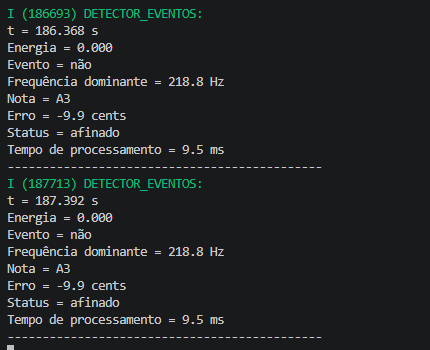
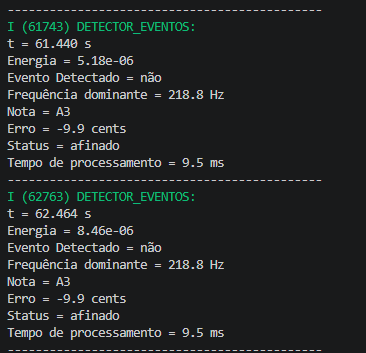
Finalizando projeto 1

Changed region(s): [[0.0, 0.0286, 0.8716, 1.0]]

diff --git a/Relatorio 1/Lab01/main/execCiclico/execCiclico.c b/Relatorio 1/Lab01/main/execCiclico/execCiclico.c
@@ -1,5 +1,5 @@
 #include "execCiclico.h"
-#include "esp_timer.h"          /* [ALTERAÇÃO] medição de tempos (README §5, §10, §11, §12) */
+#include "esp_timer.h" /* [ALTERAÇÃO] medição de tempos (README §5, §10, §11, §12) */
 #include <stdio.h>
 #include "i2sMic.h"
 #include "filtroFIR.h"
@@ -8,16 +8,18 @@
 #include "notaMusical.h"
 #include "calcEnergia.h"
 #include "detectEvent.h"
-/* [ALTERAÇÃO] Removido #include "mediaMovel.h": o módulo calcula potência média de
- * amostras e não faz parte do fluxo do README (FFT -> frequência dominante -> nota). */
 
-static const char *TAG = "EXEC_CICLICO";
+/* [ALTERAÇÃO] Contagem de ticks. Antes: só um flag booleano, que perdia os ticks ocorridos
+ * durante tarefas de vários quadros (FFT/Print) e desalinhava 'quadro' do tempo real.
+ * ticks_total: só a ISR escreve. ticks_consumidos: só o laço principal escreve. */
+static volatile uint32_t ticks_total = 0;
+static volatile uint32_t ticks_consumidos = 0;
 
 volatile bool flag_exec_ciclico = false;
 volatile bool flag_i2s_ready = false;
 volatile bool flag_fir_ready = false;
 volatile bool flag_fft_ready = false;
-volatile bool flag_nota_ready = false;      /* [ALTERAÇÃO] substitui flag_media_ready */
+volatile bool flag_nota_ready = false; /* [ALTERAÇÃO] substitui flag_media_ready */
 volatile bool flag_energia_ready = false;
 volatile bool flag_evento_pendente = false;
 
@@ -28,65 +30,71 @@ static float energia = 0.0f;
 /* [ALTERAÇÃO] Removidos freq_suavizada e energia_evento (a saída usa os valores do bloco). */
 static NotaInfo nota_atual;
 
-static uint32_t tempo_proc_us = 0;          /* [ALTERAÇÃO] "Tempo de processamento" (README §11) */
-static uint32_t quadros_estourados = 0;     /* [ALTERAÇÃO] contagem de prazos perdidos */
-static uint32_t amostras_perdidas = 0;      /* [ALTERAÇÃO] overruns do ping-pong */
+static uint32_t tempo_proc_us = 0;      /* [ALTERAÇÃO] "Tempo de processamento" (README §11) */
+static uint32_t quadros_estourados = 0; /* [ALTERAÇÃO] contagem de prazos perdidos */
+static uint32_t amostras_perdidas = 0;  /* [ALTERAÇÃO] overruns do ping-pong */
 
 /* ---------- [ALTERAÇÃO] Medição do tempo de execução de cada tarefa ---------- */
-typedef enum { T_I2S, T_FIR, T_FFT, T_ENERGIA, T_EVENTO, T_NOTA, T_PRINT, T_NUM } tarefa_id_t;
+typedef enum
+{
+    T_I2S,
+    T_FIR,
+    T_FFT,
+    T_ENERGIA,
+    T_EVENTO,
+    T_NOTA,
+    T_PRINT,
+    T_NUM
+} tarefa_id_t;
 static const char *nome_tarefa[T_NUM] = {"I2S", "FIR+push", "FFT", "Energia", "Evento", "Nota", "Print"};
 static uint32_t c_max_us[T_NUM];
 static uint32_t c_quadro_max_us[TOTAL_QUADROS];
-
-static int64_t t_proc = 0; // Armazena tempo de processamento
-
-#define MEDE_TAREFA(id, chamada)                                         \
-    do {                                                                 \
-        int64_t _t0 = esp_timer_get_time();                              \
-        chamada;                                                         \
-        uint32_t _dt = (uint32_t)(esp_timer_get_time() - _t0);           \
-        if (_dt > c_max_us[id]) c_max_us[id] = _dt;                      \
+#define MEDE_TAREFA(id, chamada)                               \
+    do                                                         \
+    {                                                          \
+        int64_t _t0 = esp_timer_get_time();                    \
+        chamada;                                               \
+        uint32_t _dt = (uint32_t)(esp_timer_get_time() - _t0); \
+        if (_dt > c_max_us[id])                                \
+            c_max_us[id] = _dt;                                \
     } while (0)
 
 void exec_ciclico_imprime_tempos(void)
 {
+    printf("\n-----------------Tempos de Execução-------------------\n");
     for (int i = 0; i < T_NUM; i++)
     {
-        /* [ALTERAÇÃO] removido o "\n" do formato (gerava linha em branco no ESP_LOGI) */
-        ESP_LOGI(TAG, "C_max %-9s = %lu us", nome_tarefa[i], (unsigned long)c_max_us[i]);
+        printf("C_max %-9s = %lu us\n", nome_tarefa[i], (unsigned long)c_max_us[i]);
     }
-
-    /* [ALTERAÇÃO – TESTE 4] Soma dos C_max por quadro (limite superior, conservador) */
-    uint32_t s0 = c_max_us[T_I2S] + c_max_us[T_FIR];
-    uint32_t s1 = c_max_us[T_FFT] + c_max_us[T_ENERGIA] + c_max_us[T_EVENTO] +
-                  c_max_us[T_NOTA] + c_max_us[T_PRINT];
-    ESP_LOGI(TAG, "Soma C_max: quadro0 = %lu us | quadro1 = %lu us | F = %u us",
-             (unsigned long)s0, (unsigned long)s1, (unsigned)CICLO_BASE_US);
-
-    /* [ALTERAÇÃO – TESTE 4] Maior tempo realmente medido de cada quadro */
-    for (uint32_t q = 0; q < TOTAL_QUADROS; q++)
-    {
-        ESP_LOGI(TAG, "Tempo max real do quadro %lu = %lu us",
-                 (unsigned long)q, (unsigned long)c_quadro_max_us[q]);
-    }
-
-    ESP_LOGI(TAG, "Quadros estourados (> %u us) = %lu | amostras perdidas = %lu",
-             (unsigned)CICLO_BASE_US, (unsigned long)quadros_estourados,
-             (unsigned long)amostras_perdidas);
+    printf("--------------------------------------------\n");
 }
+
 void set_exec_ciclico_flag(bool val)
 {
-    flag_exec_ciclico = val;
+    if (val)
+    {
+        flag_exec_ciclico = true;
+        return;
+    }
+
+    /* [ALTERAÇÃO] val == false: o main acabou de consumir UM tick.
+     * Se ainda houver ticks pendentes (tarefa que ocupou vários quadros), mantém o flag ligado
+     * para o main executar os quadros seguintes imediatamente e recuperar o alinhamento. */
+    ticks_consumidos++;
+    flag_exec_ciclico = false;
+    if (ticks_total != ticks_consumidos)
+    {
+        flag_exec_ciclico = true;
+    }
 }
 
-// INTERRUPÇÃO DO TIMER
 static bool IRAM_ATTR timer_callback(
     gptimer_handle_t timer,
     const gptimer_alarm_event_data_t *edata,
     void *user_ctx)
 {
+    ticks_total++; /* [ALTERAÇÃO] conta o tick (antes só ligava o flag) */
     flag_exec_ciclico = true;
-
     return false;
 }
 
@@ -97,14 +105,13 @@ gptimer_handle_t config_exec_ciclico_timer(void)
     gptimer_config_t timer_config = {
         .clk_src = GPTIMER_CLK_SRC_DEFAULT,
         .direction = GPTIMER_COUNT_UP,
-        .resolution_hz = 1000000};                  /* 1 tick = 1 us */
+        .resolution_hz = 1000000}; /* 1 tick = 1 us */
 
     ESP_ERROR_CHECK(gptimer_new_timer(&timer_config, &timer));
 
     gptimer_event_callbacks_t callbacks = {.on_alarm = timer_callback};
     ESP_ERROR_CHECK(gptimer_register_event_callbacks(timer, &callbacks, NULL));
 
-    /* Alarme a cada CICLO_BASE_US (= 32 ms), com recarga automática */
     gptimer_alarm_config_t alarm_config = {
         .reload_count = 0,
         .alarm_count = CICLO_BASE_US,
@@ -137,17 +144,17 @@ static void tarefa_fir(void)
 
     flag_fir_ready = false;
 
-    for (int i = 0; i < BLOCK_SIZE; i++)
+    for (int i = 0; i < I2S_BUFFER_SIZE; i++)
     {
         int16_t y = fir_process_sample(bff_ic2_mic[i]);
 
-        if (!Buffer_push(y))        /* [ALTERAÇÃO] detecta overrun do ping-pong */
+        if (!Buffer_push(y)) /* [ALTERAÇÃO] detecta overrun do ping-pong */
         {
             amostras_perdidas++;
         }
     }
 
-    flag_i2s_ready = false;         /* [ALTERAÇÃO] bloco bruto consumido */
+    flag_i2s_ready = false; /* [ALTERAÇÃO] bloco bruto consumido */
     flag_fir_ready = true;
 }
 
@@ -229,13 +236,11 @@ static void tarefa_impressao(void)
     /* [ALTERAÇÃO] Antes: imprimia a cada bloco (64 ms), ilegível e acima do prazo.
      * Agora: imprime se houve evento neste bloco OU a cada PRINT_PERIOD_BLOCKS blocos.
      * block_count já foi incrementado em tarefa_detecta_evento() neste mesmo quadro. */
-    bool imprimir = flag_evento_pendente ||
-                    ((block_count % PRINT_PERIOD_BLOCKS) == 0);
+    bool imprimir = flag_evento_pendente || ((block_count % PRINT_PERIOD_BLOCKS) == 0);
 
     if (imprimir)
     {
-        imprime_evento(flag_evento_pendente, energia, freq_dominante,
-                       nota_atual, tempo_proc_us);
+        imprime_evento(flag_evento_pendente, energia, freq_dominante, nota_atual);
     }
 
     /* [ALTERAÇÃO] Sempre limpa: a impressão roda no mesmo quadro da detecção,
@@ -249,46 +254,42 @@ void exec_ciclico_executar_quadro(uint32_t quadro)
     static bool primeira_chamada = true;
     int64_t t_ini = esp_timer_get_time();
 
+    const int q_atual = quadro % TOTAL_QUADROS;
+
     if (buffer_atual == NULL)
     {
         buffer_atual = Buffer_read();
     }
 
-    // Quadros 0 e 8
-    if (((quadro*2) % TOTAL_QUADROS) == Q_AQUISICAO)
+    if (q_atual == Q_AQUISICAO)
     {
         MEDE_TAREFA(T_I2S, tarefa_i2s_mic());
         MEDE_TAREFA(T_FIR, tarefa_fir());
     }
 
-    // Quadros 1 e 9
-    if (((quadro * 2)% TOTAL_QUADROS) == Q_FFT)
+    if (q_atual == Q_FFT)
     {
-        t_proc = esp_timer_get_time();
+        int64_t t0 = esp_timer_get_time();
         MEDE_TAREFA(T_FFT, tarefa_fft());
+        tempo_proc_us = (uint32_t)(esp_timer_get_time() - t0);
     }
-    
-    // Quadros 4 e 12
-    if (((quadro * 2) % TOTAL_QUADROS) == Q_CALC_EVENT)
+
+    if (q_atual == Q_CALC_EVENT)
     {
+        int64_t t0 = esp_timer_get_time();
         MEDE_TAREFA(T_ENERGIA, tarefa_calcula_energia());
         MEDE_TAREFA(T_EVENTO, tarefa_detecta_evento());
         MEDE_TAREFA(T_NOTA, tarefa_identifica_nota());
+        tempo_proc_us += (uint32_t)(esp_timer_get_time() - t0);
     }
-    
-    // Quadros 5 e 13
-    if (((quadro * 2) % TOTAL_QUADROS) == Q_IMPRESSAO)
-    {
-        tempo_proc_us = (uint32_t)(esp_timer_get_time() - t_proc);
 
+    if (q_atual == Q_IMPRESSAO)
+    {
         MEDE_TAREFA(T_PRINT, tarefa_impressao());
     }
 
     uint32_t dt = (uint32_t)(esp_timer_get_time() - t_ini);
 
-    /* [ALTERAÇÃO – TESTE 4] A 1ª chamada (app_main) espera ~64 ms pelo 1º bloco do
-     * microfone: descarta essa medição, senão C_max(I2S) ficaria ≈ 64000 us.
-     * Nas demais, guarda o maior tempo de cada quadro. */
     if (primeira_chamada)
     {
         for (int i = 0; i < T_NUM; i++)
@@ -301,11 +302,11 @@ void exec_ciclico_executar_quadro(uint32_t quadro)
         c_quadro_max_us[quadro % TOTAL_QUADROS] = dt;
     }
 
-    // if (!primeira_chamada && dt > CICLO_BASE_US)
-    // {
-    //     quadros_estourados++;
-    //     ESP_LOGW(TAG, "Quadro %lu estourou: %lu us > %lu us",
-    //              (unsigned long)quadro, (unsigned long)dt, (unsigned long)CICLO_BASE_US);
-    // }
+    if (!primeira_chamada && dt > CICLO_BASE_US)
+    {
+        quadros_estourados++;
+        printf("Quadros estourados (> orcamento) = %lu | amostras perdidas = %lu",
+               (unsigned long)quadros_estourados, (unsigned long)amostras_perdidas);
+    }
     primeira_chamada = false;
 }

diff --git a/Relatorio 1/Lab01/main/detectEvent/detectEvent.c b/Relatorio 1/Lab01/main/detectEvent/detectEvent.c
@@ -3,8 +3,6 @@
 #include <stdint.h>
 #include "esp_log.h"
 
-static const char *TAG = "DETECTOR_EVENTOS";
-
 uint32_t block_count = 0;
 
 bool detecta_evento(float energy)
@@ -25,23 +23,19 @@ bool detecta_evento(float energy)
 void imprime_evento(bool flag_evento,
                     float energy,
                     float freq_dominante,
-                    NotaInfo nota,
-                    uint32_t tempo_proc_us)
+                    NotaInfo nota)
 {
     float t_s = block_count * ((float)BLOCK_SIZE / AUDIO_FS_HZ);
+    
+    printf("t = %.3f s\n"
+            "Energia = %.2e\n"
+            "Evento Detectado = %s\n"
+            "Frequência dominante = %.1f Hz\n"
+            "Nota = %s\n"
+            "Erro = %+.1f cents\n"
+            "Status = %s\n"
+            "---------------------------------------------\n",
+            t_s, energy, flag_evento ? "sim" : "não",
+            freq_dominante, nota.nome, nota.cents, nota.status);
 
-        ESP_LOGI(TAG,
-             "\n"
-             "t = %.3f s\n"
-             "Energia = %.2e\n"
-             "Evento Detectado = %s\n"
-             "Frequência dominante = %.1f Hz\n"
-             "Nota = %s\n"
-             "Erro = %+.1f cents\n"
-             "Status = %s\n"
-             "Tempo de processamento = %.1f ms\n"
-             "---------------------------------------------",
-             t_s, energy, flag_evento ? "sim" : "não",
-             freq_dominante, nota.nome, nota.cents, nota.status,
-             tempo_proc_us / 1000.0f);
 }

diff --git a/Relatorio 1/Lab01/main/execCiclico/execCiclico.h b/Relatorio 1/Lab01/main/execCiclico/execCiclico.h
@@ -17,7 +17,7 @@
  *         2F - mdc(F,T) = 32 ms <= D = 64 ms.
  * Antes: 64 ms x 8 quadros = 512 ms de ciclo (período efetivo das tarefas = 512 ms). */
 // #define CICLO_BASE_US 32000u
-#define CICLO_BASE_US 4000u
+#define CICLO_BASE_US 16000u
 
 /* [ALTERAÇÃO] Nº de quadros = H / F = 64 ms / 32 ms = 2. 
 16 quadros*/
@@ -27,10 +27,10 @@ _Static_assert((BLOCK_PERIOD_US % CICLO_BASE_US) == 0,
                "CICLO_BASE_US deve dividir o periodo do bloco (64 ms)");
 
 /* [ALTERAÇÃO] Fases das tarefas (todas com período de TOTAL_QUADROS quadros = 64 ms) */
-#define Q_AQUISICAO     0   /* Quadros 0 e 8 T1 I2S + T2 FIR/push */
-#define Q_FFT           2   // Quadros 1 e 9 (Q*2 % 16 = 2)
-#define Q_CALC_EVENT    8   // Quadros 4 e 12
-#define Q_IMPRESSAO     10  // Quadros 5 e 13
+#define Q_AQUISICAO     0
+#define Q_FFT           1
+#define Q_CALC_EVENT    2
+#define Q_IMPRESSAO     3
 
 void set_exec_ciclico_flag(bool val);
 void exec_ciclico_executar_quadro(uint32_t quadro);

diff --git a/Relatorio 1/Lab01/main/projetoCfg/projetoCfg.h b/Relatorio 1/Lab01/main/projetoCfg/projetoCfg.h
@@ -9,14 +9,14 @@
 
 /* [ALTERAÇÃO] A energia agora é E = (1/N)·Σy² (README §7), não mais RMS.
  * 0.09 equivale ao limiar anterior (0.3 RMS → 0.3² = 0.09). Recalibre com palma/batida. */
-#define LIMIAR_ENERGIA 1.0e-3f
+#define LIMIAR_ENERGIA 1.0e-4f
 #define REFRACTORY_BLOCKS 10
 
 /* [ALTERAÇÃO] Faixa de busca do pico (README §8) */
 #define FFT_FMIN_HZ 80u
 #define FFT_FMAX_HZ 1200u
 
-#define PRINT_PERIOD_BLOCKS 16u
+#define PRINT_PERIOD_BLOCKS 32u
 
 typedef int16_t amostra_t;
 

diff --git a/Relatorio 1/Lab01/main/main.c b/Relatorio 1/Lab01/main/main.c
@@ -33,7 +33,7 @@ void app_main(void)
 
             /* [ALTERAÇÃO] opcional: imprime os C_max uma vez, após 100 ciclos de 64 ms.
              * Fora do quadro medido; serve apenas para preencher a tabela do relatório. */
-            if (quadro == 1 && ++ciclos % 100 == 0)
+            if (quadro == 1 && ++ciclos % 250 == 0)
             {
                 exec_ciclico_imprime_tempos();
             }

diff --git a/Relatorio 1/Lab01/main/detectEvent/detectEvent.h b/Relatorio 1/Lab01/main/detectEvent/detectEvent.h
@@ -14,7 +14,6 @@ bool detecta_evento(float energy);
 void imprime_evento(bool flag_evento,
                     float energy,
                     float freq_dominante,
-                    NotaInfo nota,
-                    uint32_t tempo_proc_us);
+                    NotaInfo nota);
 
 #endif
